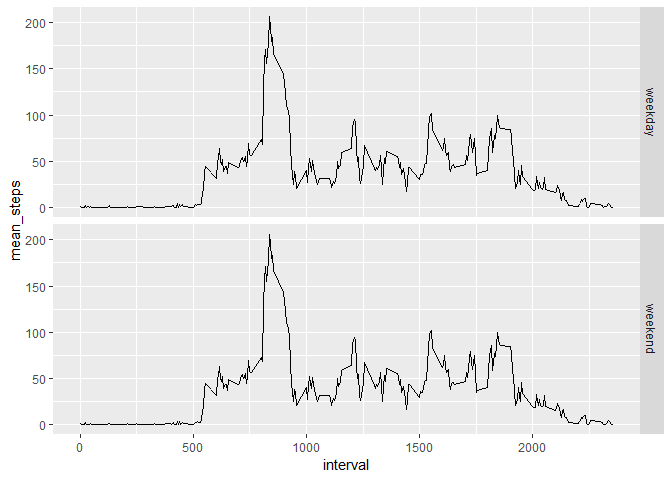
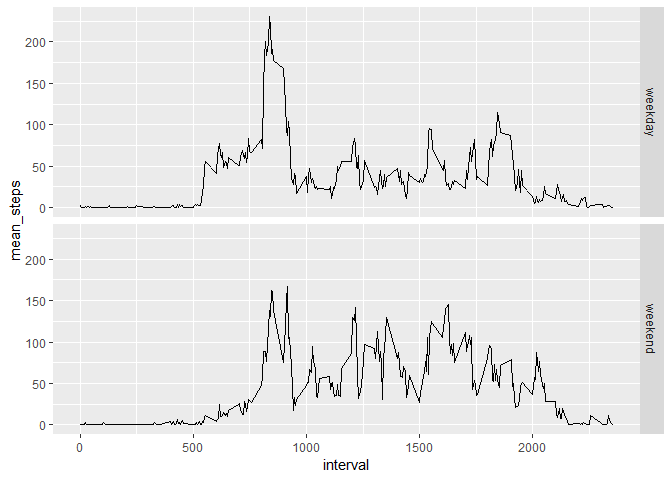
Per weekend adjust

diff --git a/PA1_template.html b/PA1_template.html
@@ -203,9 +203,12 @@ out2</code></pre>
 <h2>Are there differences in activity patterns between weekdays and weekends?</h2>
 <pre class="r"><code>activity_fill[,weekend:=ifelse(date %&gt;% strftime(&quot;%w&quot;) %in% c(0,6),&quot;weekend&quot;,&quot;weekday&quot;) 
                         %&gt;% factor]
-ggplot(data=activity_fill,aes(x=interval,y=mean_steps) ) + geom_line() +
+
+activityPerIntervalWknd=activity_fill[,.(&quot;mean_steps&quot;=mean(steps,na.rm = T)),by=.(weekend,interval)]
+
+ggplot(data=activityPerIntervalWknd,aes(x=interval,y=mean_steps) ) + geom_line() +
   facet_grid(weekend~.)</code></pre>
[2 lines of base64/hex data omitted]
 </div>
 
 

diff --git a/PA1_template.md b/PA1_template.md
@@ -156,7 +156,10 @@ After filling missing values estimations of mean and median for total steps per 
 ```r
 activity_fill[,weekend:=ifelse(date %>% strftime("%w") %in% c(0,6),"weekend","weekday") 
                         %>% factor]
-ggplot(data=activity_fill,aes(x=interval,y=mean_steps) ) + geom_line() +
+
+activityPerIntervalWknd=activity_fill[,.("mean_steps"=mean(steps,na.rm = T)),by=.(weekend,interval)]
+
+ggplot(data=activityPerIntervalWknd,aes(x=interval,y=mean_steps) ) + geom_line() +
   facet_grid(weekend~.)
 ```
 
